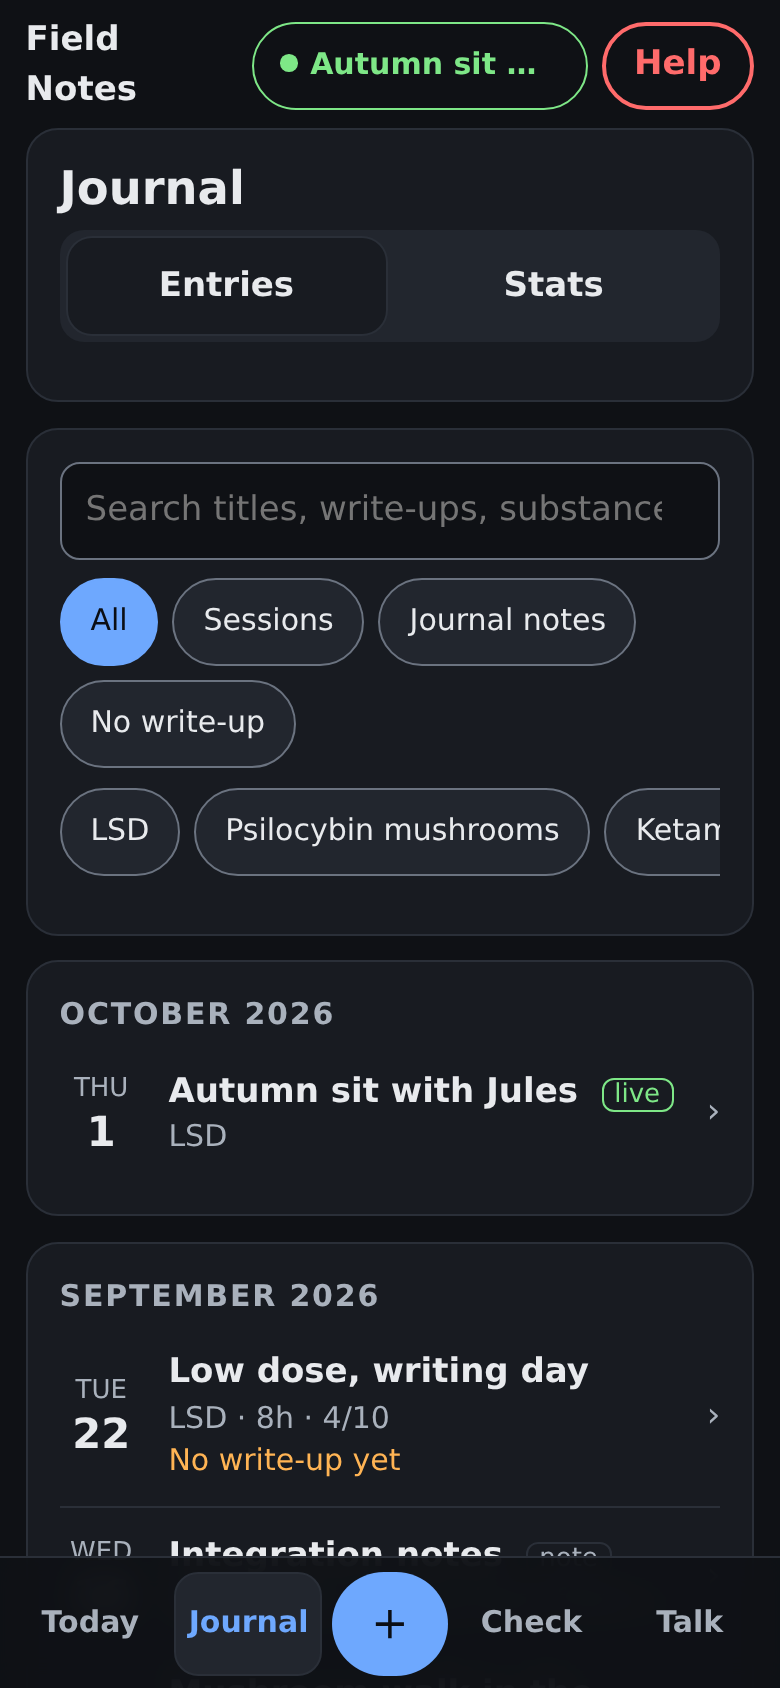
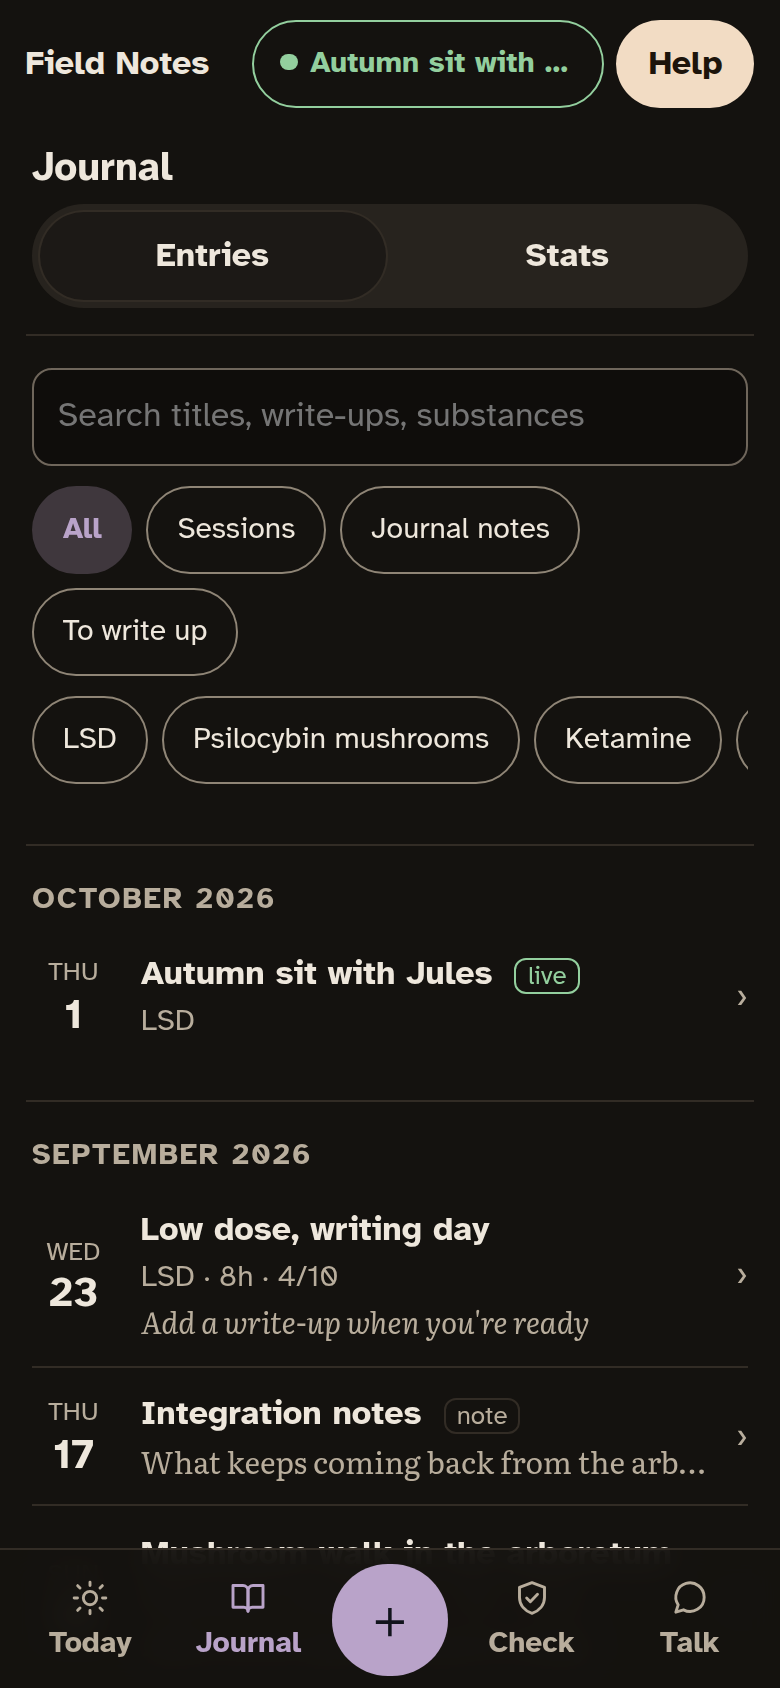
New README screenshots; style plain small buttons; drop Today explainer (v0.18.1)
Screenshots retaken for the v0.18 look, with captions matching the new places
(Every dose under Stats, Check). Twelve desktop buttons classed only small-btn
had no background or border after the redesign and rendered as browser-default
white boxes; they are ghost pills now.

Claude-Session: https://claude.ai/code/session_01JJ6mr14pRhMA7MVKcS4ri5

diff --git a/src/routes/+page.svelte b/src/routes/+page.svelte
@@ -2776,7 +2776,7 @@ Peak was intense and connected; gentle comedown by 1am. Drank lots of water, no 
                 <button class="primary small-btn" disabled={aiBusy} onclick={doSwitchModel}>
                   {aiBusy ? "Switching…" : `Switch to ${aiPreferred}`}
                 </button>
-                <button class="small-btn" disabled={aiBusy} onclick={() => (upgradeDismissed = true)}>
+                <button class="ghost small-btn" disabled={aiBusy} onclick={() => (upgradeDismissed = true)}>
                   Not now
                 </button>
               </div>
@@ -3084,14 +3084,14 @@ Peak was intense and connected; gentle comedown by 1am. Drank lots of water, no 
                     <strong>{c.name}</strong>
                     {#if c.contributed}<span class="flag" title="You've saved a draft for this one. It says nothing about whether you submitted it.">draft saved</span>{/if}
                   </span>
-                  <button class="small-btn" onclick={() => previewDraft(c.id)}>Review draft…</button>
+                  <button class="ghost small-btn" onclick={() => previewDraft(c.id)}>Review draft…</button>
                 </div>
 
                 {#if contribDraft && contribDraft.name === c.name}
                   <pre class="draft">{contribDraft.json}</pre>
                   <div class="row-actions draft-actions">
                     <button class="link" onclick={() => (contribDraft = null)}>Cancel</button>
-                    <button class="small-btn" onclick={() => openUrl(contribDraft!.upstream_url)}>Open DoseWiki</button>
+                    <button class="ghost small-btn" onclick={() => openUrl(contribDraft!.upstream_url)}>Open DoseWiki</button>
                     <button class="primary small-btn" onclick={() => saveDraft(contribDraft!, c.id)}>Save draft to a file…</button>
                   </div>
                   <p class="muted small">
@@ -3240,7 +3240,7 @@ Peak was intense and connected; gentle comedown by 1am. Drank lots of water, no 
           {/if}
           {#if remoteErr}<p class="notice bad-notice">{remoteErr}</p>{/if}
           <div class="row-actions">
-            <button class="small-btn" disabled={remoteBusy} onclick={syncNow}>{remoteBusy ? "Checking…" : "Sync now"}</button>
+            <button class="ghost small-btn" disabled={remoteBusy} onclick={syncNow}>{remoteBusy ? "Checking…" : "Sync now"}</button>
             <button class="ghost small-btn" onclick={disconnectRemote}>Disconnect</button>
           </div>
         {/if}
@@ -3356,7 +3356,7 @@ Peak was intense and connected; gentle comedown by 1am. Drank lots of water, no 
                 reach it: it's your tailnet, encrypted end to end, and every request still needs a paired
                 device's key.
               </p>
-              <button class="small-btn" disabled={serving} onclick={toggleServe}>
+              <button class="ghost small-btn" disabled={serving} onclick={toggleServe}>
                 {serving ? "Working…" : "Stop publishing to my tailnet"}
               </button>
             {:else}
@@ -3380,7 +3380,7 @@ Peak was intense and connected; gentle comedown by 1am. Drank lots of water, no 
             </p>
             <form class="remote-form" onsubmit={(e) => { e.preventDefault(); doPair(); }}>
               <input placeholder="e.g. Phone, Laptop" maxlength="60" bind:value={pairName} bind:this={pairInput} />
-              <button class="small-btn" type="submit">Pair</button>
+              <button class="ghost small-btn" type="submit">Pair</button>
             </form>
           {:else}
             {#if pairedId === pairing.device.id}
@@ -3401,11 +3401,11 @@ Peak was intense and connected; gentle comedown by 1am. Drank lots of water, no 
             </ul>
             <div class="row-actions">
               {#if showQr && portalQrSvg}
-                <button class="small-btn" onclick={() => (showQr = false)}>Hide code</button>
+                <button class="ghost small-btn" onclick={() => (showQr = false)}>Hide code</button>
               {:else}
-                <button class="small-btn" onclick={revealQr}>Show QR code…</button>
+                <button class="ghost small-btn" onclick={revealQr}>Show QR code…</button>
               {/if}
-              <button class="small-btn" onclick={copyPairLink}>{pairLinkCopied ? "Link copied ✓" : "Copy link"}</button>
+              <button class="ghost small-btn" onclick={copyPairLink}>{pairLinkCopied ? "Link copied ✓" : "Copy link"}</button>
               <button class="ghost small-btn" onclick={donePairing}>Done</button>
             </div>
             {#if showQr && portalQrSvg}
@@ -3485,7 +3485,7 @@ Peak was intense and connected; gentle comedown by 1am. Drank lots of water, no 
               </p>
               <form class="remote-form" onsubmit={(e) => { e.preventDefault(); rememberPassword(); }}>
                 <input type="password" autocomplete="current-password" placeholder="Journal password" bind:value={kcPass} />
-                <button class="small-btn" type="submit" disabled={kcBusy || !kcPass}>Save in keychain</button>
+                <button class="ghost small-btn" type="submit" disabled={kcBusy || !kcPass}>Save in keychain</button>
               </form>
             {/if}
             {#if kcErr}<p class="notice bad-notice">{kcErr}</p>{/if}
@@ -3645,7 +3645,7 @@ Peak was intense and connected; gentle comedown by 1am. Drank lots of water, no 
           journal is sent.
         </p>
         <div class="row-actions">
-          <button class="small-btn" disabled={manualCheck === "checking" || updateBusy} onclick={checkForUpdateNow}>
+          <button class="ghost small-btn" disabled={manualCheck === "checking" || updateBusy} onclick={checkForUpdateNow}>
             {manualCheck === "checking" ? "Checking…" : "Check for updates"}
           </button>
           {#if manualCheck === "found" && update}
@@ -3684,7 +3684,7 @@ Peak was intense and connected; gentle comedown by 1am. Drank lots of water, no 
           placeholder="Any detail you want to include (optional — you can also write it on GitHub)"
           bind:value={fbDetail}
         ></textarea>
-        <button class="small-btn" onclick={openFeedback}>Continue on GitHub →</button>
+        <button class="ghost small-btn" onclick={openFeedback}>Continue on GitHub →</button>
       </section>
 
       <section class="card danger-card">

diff --git a/src/routes/m/+page.svelte b/src/routes/m/+page.svelte
@@ -1494,7 +1494,6 @@
       {:else}
         <section class="pane">
           <h1>Log something you took</h1>
-          <p class="muted">A substance and roughly when. That's a whole entry — nothing to end, nothing to write.</p>
           <button class="primary big" onclick={() => startDose(null)}>+ Log a dose</button>
           <div class="pair">
             <button onclick={() => (sheet = "start")}>Start a session</button>

diff --git a/README.md b/README.md
@@ -124,13 +124,13 @@ All screenshots use a fictional demo journal.
 | | |
 |:---:|:---:|
 | ![Journal home](docs/screenshots/journal-home.png) | ![Live session](docs/screenshots/live-session.png) |
-| **Journal**: sessions and plain notes in one place | **Live session**: doses and timeline with t+ offsets |
+| **Journal**: sessions and notes by month, actions in one quiet bar | **Live session**: last dose, quick log and one-tap moments |
 | ![Session detail](docs/screenshots/session-detail.png) | ![Stats](docs/screenshots/stats.png) |
 | **Session detail**: what you took, when, and how it went | **Stats**: dose over time against reference ranges, spacing, frequency, calendar |
 | ![Companion chat](docs/screenshots/companion-chat.png) | ![Substance log](docs/screenshots/substance-log.png) |
-| **Companion**: local AI support chat with selectable support styles | **Substance log**: history grouped by substance |
-| ![Substances reference](docs/screenshots/substances-reference.png) | ![Reference search](docs/screenshots/reference-search.png) |
-| **Substances**: offline dose reference and your own catalogue | **Reference search**: thousands of DoseWiki passages, searchable offline |
+| **Companion**: local AI support chat with selectable support styles | **Every dose, by substance**: the full history, under Stats |
+| ![Check](docs/screenshots/substances-reference.png) | ![Reference search](docs/screenshots/reference-search.png) |
+| **Check**: test a combination, search the reference, keep your own catalogue | **Reference search**: thousands of DoseWiki passages, searchable offline |
 | ![Emergency help](docs/screenshots/emergency-help.png) | ![Updates](docs/screenshots/settings-updates.png) |
 | **Get help now**: real crisis and peer-support contacts, always one tap away | **Updates**: automatic, or check by hand any time |
 | ![Devices and server](docs/screenshots/settings-phone-access.png) | ![Encryption and backup](docs/screenshots/settings-encryption-backup.png) |

diff --git a/CHANGELOG.md b/CHANGELOG.md
@@ -11,6 +11,15 @@ after publishing — see RELEASING.md).
 
 The heading must be exactly `## vX.Y.Z`, matching the tag. Newest on top.
 
+## v0.18.1
+
+- **A few desktop buttons had no style.** "Pair", "Stop publishing to my
+  tailnet", "Show QR code", "Copy link", "Check for updates" and others in
+  Settings showed as plain white boxes after the redesign. They're outlined
+  pills now, like the rest.
+- **Less explaining on the phone's Today screen.** The line under "Log
+  something you took" is gone; the buttons say it.
+
 ## v0.18.0
 
 - **Pasting a trip log from some apps showed "%20" everywhere.** Text copied as
